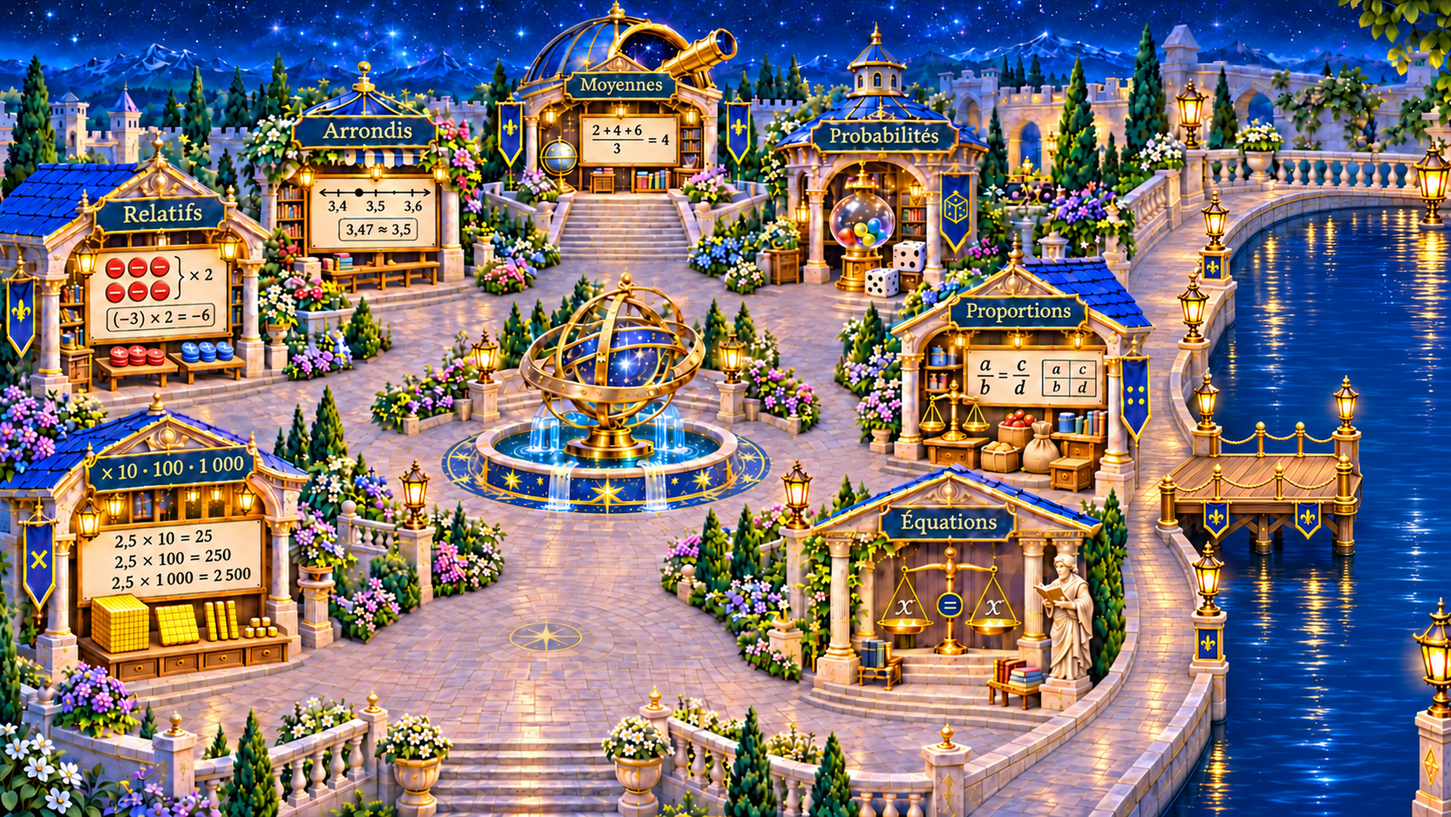
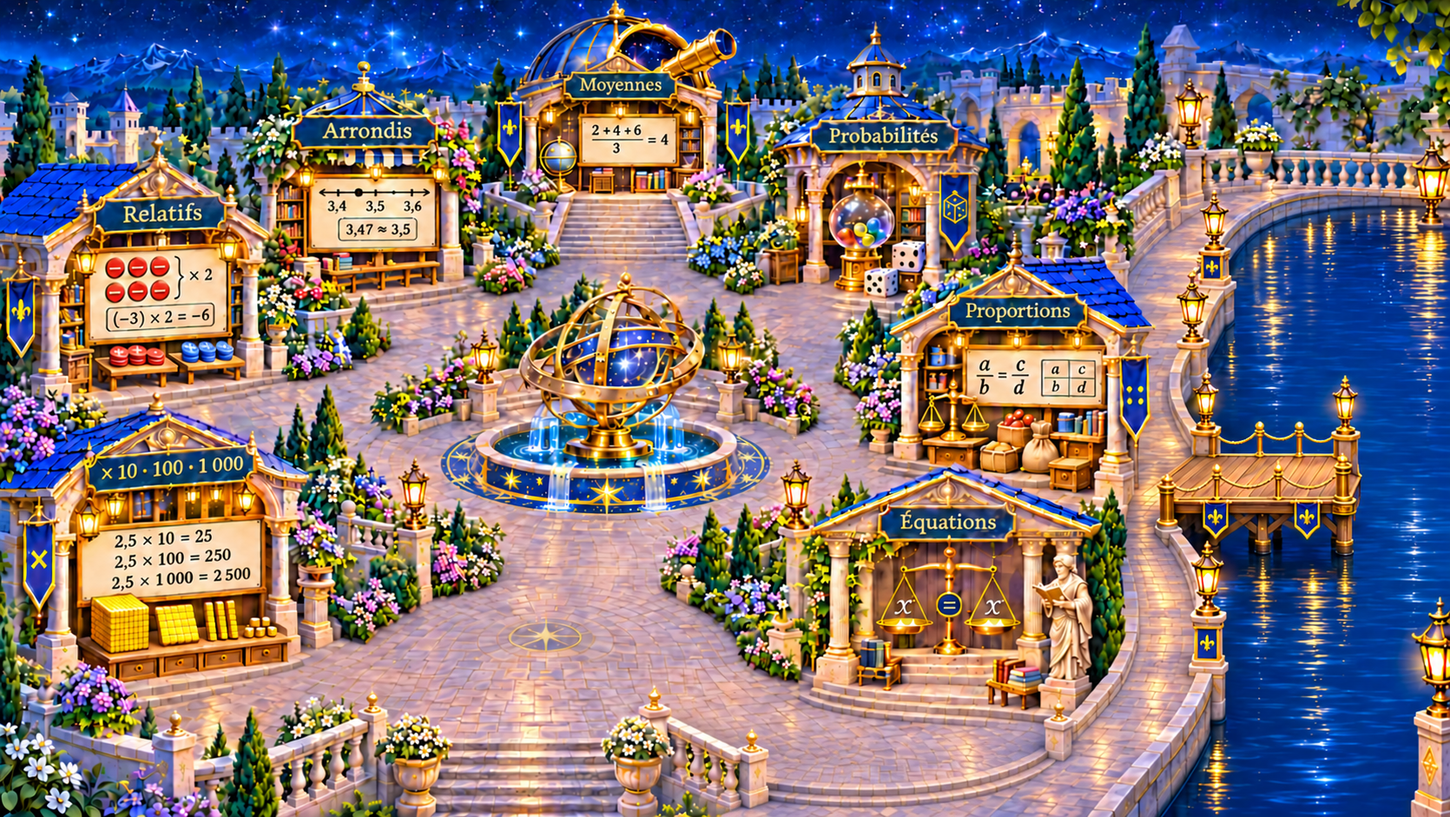
fix(test): open balustrade passage on route to harbour (v0.3.63-test)

diff --git a/index.html b/index.html
@@ -4,7 +4,7 @@
   <meta charset="utf-8">
   <meta name="viewport" content="width=device-width, initial-scale=1">
   <meta name="theme-color" content="#111d31">
-  <title>Maths Quest — version 0.3.62-test — Bleu royal & or</title>
+  <title>Maths Quest — version 0.3.63-test — Bleu royal & or</title>
   <style>
     :root { font-family:system-ui,sans-serif; background:#101c2d; color:#eee6d4; color-scheme:dark; }
     * { box-sizing:border-box; }
@@ -203,7 +203,7 @@
 
 
     /* ====================================================================
-       v0.3.62-test - Thème retenu : Bleu royal, or et parchemin.
+       v0.3.63-test - Thème retenu : Bleu royal, or et parchemin.
        Toute la logique pédagogique 0.3 reste inchangée.
        ==================================================================== */
     .quiz-screen{
@@ -365,7 +365,7 @@
     @media(prefers-reduced-motion:reduce){.quiz-submit{transition:none}}
 
 
-    /* v0.3.62-test — Cartouche de défi à droite du héros. */
+    /* v0.3.63-test — Cartouche de défi à droite du héros. */
     .arrival{left:50.4%;top:27.7%;width:24.5%;max-width:360px;min-width:0;gap:clamp(3px,.5vw,8px);
       padding:clamp(5px,.72vw,12px);box-shadow:0 9px 23px #071c3bc7;}
     .arrival .arrival-heading{font-size:clamp(10px,.94vw,16px)}
@@ -373,7 +373,7 @@
     .arrival small{font-size:clamp(9px,.8vw,13px)}
     .arrival .arrival-action{font-size:clamp(10px,.95vw,16px);padding:clamp(6px,.65vw,12px)}
 
-    /* v0.3.62-test — Camp d'entrainement de face comme arrière-plan des exercices.
+    /* v0.3.63-test — Camp d'entrainement de face comme arrière-plan des exercices.
        L'interface d'Activités mentales reste indépendante de ce fond illustré. */
     .quiz-screen{
       background-image:linear-gradient(90deg,rgba(7,27,57,.47),rgba(10,34,63,.31) 50%,rgba(7,27,57,.47)),
@@ -417,7 +417,7 @@
 
 
     /* ================================================================
-       v0.3.62-test — adaptation à la HAUTEUR et à la LARGEUR de l'écran.
+       v0.3.63-test — adaptation à la HAUTEUR et à la LARGEUR de l'écran.
        Une question doit tenir dans la zone visible, bouton Valider inclus.
        Le bilan reste défilable car il contient les dix réponses.
        ================================================================ */
@@ -530,7 +530,7 @@
     }
 
 
-    /* v0.3.62-test — Écran de transition « Tables de multiplication ».
+    /* v0.3.63-test — Écran de transition « Tables de multiplication ».
        L'illustration est un décor, les zones actives sont de vrais boutons HTML. */
     .trial-transition[hidden] {display:none!important}
     .trial-transition {position:fixed;inset:0;z-index:55;display:flex;flex-direction:column;
@@ -575,7 +575,7 @@
     @media(min-width:701px){.oath{max-height:59%;overflow:auto}}
     .relative-intro{display:none!important}
     .transition-recap{left:68.1%;top:10.8%;width:20.8%;height:4%;background:#0b2541;font-size:clamp(8px,1.05vw,17px);border:0;box-shadow:none}
-    /* v0.3.62-test — Bilan ajusté à l'écran ; seul le détail des réponses défile. */
+    /* v0.3.63-test — Bilan ajusté à l'écran ; seul le détail des réponses défile. */
     .quiz-content:has(.quiz-results:not([hidden])) {
       display:flex;overflow:hidden;width:min(760px,calc(100% - 24px));
     }
@@ -901,7 +901,7 @@ body:has(dialog[open]) #appFullscreen{visibility:hidden}
 @media(max-width:640px){#appFullscreen{right:8px;bottom:8px;width:34px;height:34px;padding:7px}.brand-version{font-size:clamp(6px,1.5vw,10px)}}
 
 
-/* v0.3.62-test — Progression retirée des images sources, sans plaque de masquage. */
+/* v0.3.63-test — Progression retirée des images sources, sans plaque de masquage. */
 #scene,.transition-viewport{container-type:inline-size}
 .court-quests .court-quest-row{display:none!important}
 .court-quests .trial-groups{display:grid;height:68%;grid-auto-rows:minmax(0,1fr);grid-template-rows:none}
@@ -1109,7 +1109,7 @@ body:has(dialog[open]) #appFullscreen{visibility:hidden}
 <body>
 <svg width="0" height="0" aria-hidden="true" style="position:absolute"><defs><clipPath id="worldHeaderPanels" clipPathUnits="objectBoundingBox"><rect width=".33" height=".15"/><rect x=".39" width=".225" height=".15"/></clipPath></defs></svg>
   <main class="scene-area" id="sceneArea">
-    <div class="scene-viewport" id="scene"><span class="brand-version">v0.3.62-test</span>
+    <div class="scene-viewport" id="scene"><span class="brand-version">v0.3.63-test</span>
       <img class="scene-image" src="assets/carte-sans-progression.png"
         alt="L’Académie des Nombres, trois épreuves reliées par des flèches lumineuses, et l'entrée au premier plan." draggable="false">
       <svg class="route-layer" viewBox="0 0 1660 947" preserveAspectRatio="none" aria-hidden="true" focusable="false">
@@ -1200,7 +1200,7 @@ body:has(dialog[open]) #appFullscreen{visibility:hidden}
           draggable="false">
         <div class="quest-progress transition-progress" role="progressbar" aria-label="Défis validés" aria-valuemin="0" aria-valuemax="3" aria-valuenow="0"><span class="quest-progress-fill"></span></div>
         <span class="transition-recap" id="transitionRecap" aria-live="polite">1 / 3 défis validés ✓</span>
-        <span class="transition-version">Maths Quest · v0.3.62-test</span>
+        <span class="transition-version">Maths Quest · v0.3.63-test</span>
         <aside class="level-one-quests" aria-label="Quêtes du niveau 1"><h2>Quêtes du niveau</h2><div class="trial-groups"><div class="trial-group"><b>1</b><div><span id="transitionQuestLabel0">Calculs entiers</span><strong id="transitionQuestCount0"></strong></div><span id="transitionQuestDone0" class="court-quest-check" aria-label="Groupe en cours">✓</span></div><div class="trial-group"><b>2</b><div><span id="transitionQuestLabel1">Fractions</span><strong id="transitionQuestCount1"></strong></div><span id="transitionQuestDone1" class="court-quest-check" aria-label="Groupe en cours">✓</span></div></div><p>⭐ Obtiens au moins <strong>80 %</strong> de bonnes réponses pour avancer au niveau 2.</p></aside><div class="transition-panel-title">À toi de jouer !</div><div class="transition-choice-buttons"><button id="transitionStart" class="transition-hit transition-start" type="button"
           aria-label="Commencer le défi : Tables de multiplication" title="Commencer le défi"></button>
           <button id="skipCompletedTrial" class="skip-completed" type="button" hidden>Passer</button></div>
@@ -1234,7 +1234,7 @@ body:has(dialog[open]) #appFullscreen{visibility:hidden}
         <span class="quiz-logo" aria-hidden="true"><svg viewBox="0 0 64 68" width="45" height="48" role="presentation"><path d="M32 3 57 12 55 39Q47 55 32 64 17 55 9 39L7 12Z" fill="#173d79" stroke="#f8d38c" stroke-width="3"/><path d="M32 22Q23 14 15 20V43Q25 38 32 45Q39 38 49 43V20Q40 14 32 22Z" fill="#fff3cd" stroke="#d7b36a" stroke-width="2"/><path d="M32 22V45" fill="none" stroke="#aa8246" stroke-width="2"/><path d="M18 25Q25 23 29 27M35 27Q41 23 46 25M18 31Q24 29 29 33M35 33Q41 29 46 31" fill="none" stroke="#a68a5c" stroke-width="1.5"/></svg></span>
         <span><strong>Maths Quest</strong><small>L'Académie des Nombres · Niveau 1</small></span>
       </div>
-      <span class="quiz-stage-label">⚜ Les bases de l'Académie <small>v0.3.62-test</small></span>
+      <span class="quiz-stage-label">⚜ Les bases de l'Académie <small>v0.3.63-test</small></span>
     </header>
     <div class="quiz-content">
       <div id="quizQuestions" class="quiz-questions">
@@ -1298,9 +1298,9 @@ body:has(dialog[open]) #appFullscreen{visibility:hidden}
   </section>
 
 <section id="courtScreen" class="court-screen" hidden aria-label="Niveau 2, La Cour des Savoirs">
-<div id="courtArea" class="court-area"><div id="courtMap" class="court-map"><span class="brand-version">v0.3.62-test</span><img id="courtBackground" class="court-background" src="assets/cour-des-savoirs-sans-progression.png" alt="La Cour des Savoirs : six ateliers autour de la fontaine au cheval." draggable="false"><svg class="court-routes" viewBox="0 0 1616 970" aria-hidden="true"><defs><filter id="courtGlow"><feGaussianBlur stdDeviation="5"/></filter><marker id="courtArrow" viewBox="0 0 24 24" refX="19" refY="12" markerWidth="4.5" markerHeight="4.5" orient="auto"><path d="M2 2 22 12 2 22 7 12Z" fill="#fff7a8" stroke="#ffd52e" stroke-width="2"/></marker></defs><path d="M686.94,834.13 L677,808 L647,757 L615,724 L575,712 L540,724 L513.27,747.39" fill="none" stroke="#ffcf00" stroke-width="16" opacity=".8" filter="url(#courtGlow)"/><path d="M686.94,834.13 L677,808 L647,757 L615,724 L575,712 L540,724 L513.27,747.39" fill="none" stroke="#ffd52a" stroke-width="11"/><path d="M686.94,834.13 L677,808 L647,757 L615,724 L575,712 L540,724 L513.27,747.39" fill="none" stroke="#fff7a8" stroke-width="6"/><path d="M503.67,757.5 L482,785 L438,815 L383,825 L327,822 L303.9,813.34" fill="none" stroke="#ffcf00" stroke-width="16" opacity=".8" filter="url(#courtGlow)"/><path d="M503.67,757.5 L482,785 L438,815 L383,825 L327,822 L303.9,813.34" fill="none" stroke="#ffd52a" stroke-width="11"/><path d="M503.67,757.5 L482,785 L438,815 L383,825 L327,822 L303.9,813.34" fill="none" stroke="#fff7a8" stroke-width="6" marker-end="url(#courtArrow)"/><path d="M295.81,767.81 L322,745 L332,716 L330.44,690.99" fill="none" stroke="#ffcf00" stroke-width="16" opacity=".8" filter="url(#courtGlow)"/><path d="M295.81,767.81 L322,745 L332,716 L330.44,690.99" fill="none" stroke="#ffd52a" stroke-width="11"/><path d="M295.81,767.81 L322,745 L332,716 L330.44,690.99" fill="none" stroke="#fff7a8" stroke-width="6"/><path d="M330.6,677.03 L333,649 L352,609 L361.2,586.33" fill="none" stroke="#ffcf00" stroke-width="16" opacity=".8" filter="url(#courtGlow)"/><path d="M330.6,677.03 L333,649 L352,609 L361.2,586.33" fill="none" stroke="#ffd52a" stroke-width="11"/><path d="M330.6,677.03 L333,649 L352,609 L361.2,586.33" fill="none" stroke="#fff7a8" stroke-width="6" marker-end="url(#courtArrow)"/><path d="M420.83,514.76 L435,506 L477.4,474.2" fill="none" stroke="#ffcf00" stroke-width="16" opacity=".8" filter="url(#courtGlow)"/><path d="M420.83,514.76 L435,506 L477.4,474.2" fill="none" stroke="#ffd52a" stroke-width="11"/><path d="M420.83,514.76 L435,506 L477.4,474.2" fill="none" stroke="#fff7a8" stroke-width="6"/><path d="M487.89,464.99 L519.61,432.42" fill="none" stroke="#ffcf00" stroke-width="16" opacity=".8" filter="url(#courtGlow)"/><path d="M487.89,464.99 L519.61,432.42" fill="none" stroke="#ffd52a" stroke-width="11"/><path d="M487.89,464.99 L519.61,432.42" fill="none" stroke="#fff7a8" stroke-width="6" marker-end="url(#courtArrow)"/><path d="M595.9,381.8 L618,377 L676.14,365.37" fill="none" stroke="#ffcf00" stroke-width="16" opacity=".8" filter="url(#courtGlow)"/><path d="M595.9,381.8 L618,377 L676.14,365.37" fill="none" stroke="#ffd52a" stroke-width="11"/><path d="M595.9,381.8 L618,377 L676.14,365.37" fill="none" stroke="#fff7a8" stroke-width="6"/><path d="M689.86,365.37 L733,374 L739.15,375.34" fill="none" stroke="#ffcf00" stroke-width="16" opacity=".8" filter="url(#courtGlow)"/><path d="M689.86,365.37 L733,374 L739.15,375.34" fill="none" stroke="#ffd52a" stroke-width="11"/><path d="M689.86,365.37 L733,374 L739.15,375.34" fill="none" stroke="#fff7a8" stroke-width="6" marker-end="url(#courtArrow)"/><path d="M821.47,420.4 L824,423 L880.6,448.16" fill="none" stroke="#ffcf00" stroke-width="16" opacity=".8" filter="url(#courtGlow)"/><path d="M821.47,420.4 L824,423 L880.6,448.16" fill="none" stroke="#ffd52a" stroke-width="11"/><path d="M821.47,420.4 L824,423 L880.6,448.16" fill="none" stroke="#fff7a8" stroke-width="6"/><path d="M893.69,453.06 L965,475 L997.75,483.89" fill="none" stroke="#ffcf00" stroke-width="16" opacity=".8" filter="url(#courtGlow)"/><path d="M893.69,453.06 L965,475 L997.75,483.89" fill="none" stroke="#ffd52a" stroke-width="11"/><path d="M893.69,453.06 L965,475 L997.75,483.89" fill="none" stroke="#fff7a8" stroke-width="6" marker-end="url(#courtArrow)"/><path d="M1008.99,527.57 L1000,535 L952,577 L918,630 L910.09,680.09" fill="none" stroke="#ffcf00" stroke-width="16" opacity=".8" filter="url(#courtGlow)"/><path d="M1008.99,527.57 L1000,535 L952,577 L918,630 L910.09,680.09" fill="none" stroke="#ffd52a" stroke-width="11"/><path d="M1008.99,527.57 L1000,535 L952,577 L918,630 L910.09,680.09" fill="none" stroke="#fff7a8" stroke-width="6"/><path d="M914.59,691.22 L962,727 L1044,756 L1105.15,769.34" fill="none" stroke="#ffcf00" stroke-width="16" opacity=".8" filter="url(#courtGlow)"/><path d="M914.59,691.22 L962,727 L1044,756 L1105.15,769.34" fill="none" stroke="#ffd52a" stroke-width="11"/><path d="M914.59,691.22 L962,727 L1044,756 L1105.15,769.34" fill="none" stroke="#fff7a8" stroke-width="6" marker-end="url(#courtArrow)"/><path d="M1193.23,807.66 L1215,823 L1269.31,861.92" fill="none" stroke="#ffcf00" stroke-width="16" opacity=".8" filter="url(#courtGlow)"/><path d="M1193.23,807.66 L1215,823 L1269.31,861.92" fill="none" stroke="#ffd52a" stroke-width="11"/><path d="M1193.23,807.66 L1215,823 L1269.31,861.92" fill="none" stroke="#fff7a8" stroke-width="6"/><path d="M1281.14,869.36 L1339,901 L1383.89,909.6" fill="none" stroke="#ffcf00" stroke-width="16" opacity=".8" filter="url(#courtGlow)"/><path d="M1281.14,869.36 L1339,901 L1383.89,909.6" fill="none" stroke="#ffd52a" stroke-width="11"/><path d="M1281.14,869.36 L1339,901 L1383.89,909.6" fill="none" stroke="#fff7a8" stroke-width="6" marker-end="url(#courtArrow)"/></svg><div class="court-progress-cover"><div id="courtProgress" class="court-progress" role="progressbar" aria-label="Défis validés du niveau 2" aria-valuemin="0" aria-valuemax="6" aria-valuenow="0"><span id="courtProgressFill"></span></div><span id="courtCount">0 / 6 défis validés</span></div><span id="courtDone0" class="court-done" style="top:27%" hidden aria-label="Défi 1 validé">✓</span><span id="courtDone1" class="court-done" style="top:33.3%" hidden aria-label="Défi 2 validé">✓</span><span id="courtDone2" class="court-done" style="top:39.8%" hidden aria-label="Défi 3 validé">✓</span><span id="courtDone3" class="court-done" style="top:46.1%" hidden aria-label="Défi 4 validé">✓</span><span id="courtDone4" class="court-done" style="top:52.36%" hidden aria-label="Défi 5 validé">✓</span><span id="courtDone5" class="court-done" style="top:58.42%" hidden aria-label="Défi 6 validé">✓</span><span id="observatoryGroup0" class="observatory-group-count" style="top:30.6%" hidden>0 / 5</span><span id="observatoryGroupDone0" class="observatory-group-done" style="top:28.7%" hidden>✓</span><span id="observatoryGroup1" class="observatory-group-count" style="top:43.4%" hidden>0 / 2</span><span id="observatoryGroupDone1" class="observatory-group-done" style="top:39.0%" hidden>✓</span><span id="observatoryGroup2" class="observatory-group-count" style="top:54.1%" hidden>0 / 6</span><span id="observatoryGroupDone2" class="observatory-group-done" style="top:50.8%" hidden>✓</span><aside class="level-one-quests world-map-quests" aria-label="Quêtes du niveau"><h2>Quêtes du niveau</h2><div class="trial-groups"><div class="trial-group"><b>1</b><div><span id="worldMapGroupLabel0">Mesures & proportionnalité</span><strong id="worldMapGroupCount0"></strong></div><span id="worldMapGroupDone0" class="court-quest-check" aria-label="Groupe en cours">✓</span></div><div class="trial-group"><b>2</b><div><span id="worldMapGroupLabel1">Statistiques & probabilités</span><strong id="worldMapGroupCount1"></strong></div><span id="worldMapGroupDone1" class="court-quest-check" aria-label="Groupe en cours">✓</span></div><div class="trial-group"><b>3</b><div><span id="worldMapGroupLabel2">Calcul & algèbre</span><strong id="worldMapGroupCount2"></strong></div><span id="worldMapGroupDone2" class="court-quest-check" aria-label="Groupe en cours">✓</span></div><div class="trial-group"><b>4</b><div><span id="worldMapGroupLabel3"></span><strong id="worldMapGroupCount3"></strong></div><span id="worldMapGroupDone3" class="court-quest-check" aria-label="Groupe en cours">✓</span></div></div><p>⭐ Obtiens au moins <strong>80 %</strong> de bonnes réponses pour valider chaque épreuve.</p></aside><div id="harbourBoat" class="harbour-boat" hidden aria-label="Le bateau pour la Forge des Nombres"><div class="harbour-vessel"><img class="harbour-boat-art" src="assets/barque-observatoire.png" alt="Barque royale bleue et or amarrée au quai" draggable="false"><img id="harbourPassenger" class="harbour-passenger" hidden alt="Le héros à bord du bateau" draggable="false"></div></div><img id="courtHero" class="court-hero" alt="Le héros se déplace vers les épreuves." draggable="false"><img id="courtDepthBoard" class="court-depth-board" alt="" aria-hidden="true"></div></div>
+<div id="courtArea" class="court-area"><div id="courtMap" class="court-map"><span class="brand-version">v0.3.63-test</span><img id="courtBackground" class="court-background" src="assets/cour-des-savoirs-sans-progression.png" alt="La Cour des Savoirs : six ateliers autour de la fontaine au cheval." draggable="false"><svg class="court-routes" viewBox="0 0 1616 970" aria-hidden="true"><defs><filter id="courtGlow"><feGaussianBlur stdDeviation="5"/></filter><marker id="courtArrow" viewBox="0 0 24 24" refX="19" refY="12" markerWidth="4.5" markerHeight="4.5" orient="auto"><path d="M2 2 22 12 2 22 7 12Z" fill="#fff7a8" stroke="#ffd52e" stroke-width="2"/></marker></defs><path d="M686.94,834.13 L677,808 L647,757 L615,724 L575,712 L540,724 L513.27,747.39" fill="none" stroke="#ffcf00" stroke-width="16" opacity=".8" filter="url(#courtGlow)"/><path d="M686.94,834.13 L677,808 L647,757 L615,724 L575,712 L540,724 L513.27,747.39" fill="none" stroke="#ffd52a" stroke-width="11"/><path d="M686.94,834.13 L677,808 L647,757 L615,724 L575,712 L540,724 L513.27,747.39" fill="none" stroke="#fff7a8" stroke-width="6"/><path d="M503.67,757.5 L482,785 L438,815 L383,825 L327,822 L303.9,813.34" fill="none" stroke="#ffcf00" stroke-width="16" opacity=".8" filter="url(#courtGlow)"/><path d="M503.67,757.5 L482,785 L438,815 L383,825 L327,822 L303.9,813.34" fill="none" stroke="#ffd52a" stroke-width="11"/><path d="M503.67,757.5 L482,785 L438,815 L383,825 L327,822 L303.9,813.34" fill="none" stroke="#fff7a8" stroke-width="6" marker-end="url(#courtArrow)"/><path d="M295.81,767.81 L322,745 L332,716 L330.44,690.99" fill="none" stroke="#ffcf00" stroke-width="16" opacity=".8" filter="url(#courtGlow)"/><path d="M295.81,767.81 L322,745 L332,716 L330.44,690.99" fill="none" stroke="#ffd52a" stroke-width="11"/><path d="M295.81,767.81 L322,745 L332,716 L330.44,690.99" fill="none" stroke="#fff7a8" stroke-width="6"/><path d="M330.6,677.03 L333,649 L352,609 L361.2,586.33" fill="none" stroke="#ffcf00" stroke-width="16" opacity=".8" filter="url(#courtGlow)"/><path d="M330.6,677.03 L333,649 L352,609 L361.2,586.33" fill="none" stroke="#ffd52a" stroke-width="11"/><path d="M330.6,677.03 L333,649 L352,609 L361.2,586.33" fill="none" stroke="#fff7a8" stroke-width="6" marker-end="url(#courtArrow)"/><path d="M420.83,514.76 L435,506 L477.4,474.2" fill="none" stroke="#ffcf00" stroke-width="16" opacity=".8" filter="url(#courtGlow)"/><path d="M420.83,514.76 L435,506 L477.4,474.2" fill="none" stroke="#ffd52a" stroke-width="11"/><path d="M420.83,514.76 L435,506 L477.4,474.2" fill="none" stroke="#fff7a8" stroke-width="6"/><path d="M487.89,464.99 L519.61,432.42" fill="none" stroke="#ffcf00" stroke-width="16" opacity=".8" filter="url(#courtGlow)"/><path d="M487.89,464.99 L519.61,432.42" fill="none" stroke="#ffd52a" stroke-width="11"/><path d="M487.89,464.99 L519.61,432.42" fill="none" stroke="#fff7a8" stroke-width="6" marker-end="url(#courtArrow)"/><path d="M595.9,381.8 L618,377 L676.14,365.37" fill="none" stroke="#ffcf00" stroke-width="16" opacity=".8" filter="url(#courtGlow)"/><path d="M595.9,381.8 L618,377 L676.14,365.37" fill="none" stroke="#ffd52a" stroke-width="11"/><path d="M595.9,381.8 L618,377 L676.14,365.37" fill="none" stroke="#fff7a8" stroke-width="6"/><path d="M689.86,365.37 L733,374 L739.15,375.34" fill="none" stroke="#ffcf00" stroke-width="16" opacity=".8" filter="url(#courtGlow)"/><path d="M689.86,365.37 L733,374 L739.15,375.34" fill="none" stroke="#ffd52a" stroke-width="11"/><path d="M689.86,365.37 L733,374 L739.15,375.34" fill="none" stroke="#fff7a8" stroke-width="6" marker-end="url(#courtArrow)"/><path d="M821.47,420.4 L824,423 L880.6,448.16" fill="none" stroke="#ffcf00" stroke-width="16" opacity=".8" filter="url(#courtGlow)"/><path d="M821.47,420.4 L824,423 L880.6,448.16" fill="none" stroke="#ffd52a" stroke-width="11"/><path d="M821.47,420.4 L824,423 L880.6,448.16" fill="none" stroke="#fff7a8" stroke-width="6"/><path d="M893.69,453.06 L965,475 L997.75,483.89" fill="none" stroke="#ffcf00" stroke-width="16" opacity=".8" filter="url(#courtGlow)"/><path d="M893.69,453.06 L965,475 L997.75,483.89" fill="none" stroke="#ffd52a" stroke-width="11"/><path d="M893.69,453.06 L965,475 L997.75,483.89" fill="none" stroke="#fff7a8" stroke-width="6" marker-end="url(#courtArrow)"/><path d="M1008.99,527.57 L1000,535 L952,577 L918,630 L910.09,680.09" fill="none" stroke="#ffcf00" stroke-width="16" opacity=".8" filter="url(#courtGlow)"/><path d="M1008.99,527.57 L1000,535 L952,577 L918,630 L910.09,680.09" fill="none" stroke="#ffd52a" stroke-width="11"/><path d="M1008.99,527.57 L1000,535 L952,577 L918,630 L910.09,680.09" fill="none" stroke="#fff7a8" stroke-width="6"/><path d="M914.59,691.22 L962,727 L1044,756 L1105.15,769.34" fill="none" stroke="#ffcf00" stroke-width="16" opacity=".8" filter="url(#courtGlow)"/><path d="M914.59,691.22 L962,727 L1044,756 L1105.15,769.34" fill="none" stroke="#ffd52a" stroke-width="11"/><path d="M914.59,691.22 L962,727 L1044,756 L1105.15,769.34" fill="none" stroke="#fff7a8" stroke-width="6" marker-end="url(#courtArrow)"/><path d="M1193.23,807.66 L1215,823 L1269.31,861.92" fill="none" stroke="#ffcf00" stroke-width="16" opacity=".8" filter="url(#courtGlow)"/><path d="M1193.23,807.66 L1215,823 L1269.31,861.92" fill="none" stroke="#ffd52a" stroke-width="11"/><path d="M1193.23,807.66 L1215,823 L1269.31,861.92" fill="none" stroke="#fff7a8" stroke-width="6"/><path d="M1281.14,869.36 L1339,901 L1383.89,909.6" fill="none" stroke="#ffcf00" stroke-width="16" opacity=".8" filter="url(#courtGlow)"/><path d="M1281.14,869.36 L1339,901 L1383.89,909.6" fill="none" stroke="#ffd52a" stroke-width="11"/><path d="M1281.14,869.36 L1339,901 L1383.89,909.6" fill="none" stroke="#fff7a8" stroke-width="6" marker-end="url(#courtArrow)"/></svg><div class="court-progress-cover"><div id="courtProgress" class="court-progress" role="progressbar" aria-label="Défis validés du niveau 2" aria-valuemin="0" aria-valuemax="6" aria-valuenow="0"><span id="courtProgressFill"></span></div><span id="courtCount">0 / 6 défis validés</span></div><span id="courtDone0" class="court-done" style="top:27%" hidden aria-label="Défi 1 validé">✓</span><span id="courtDone1" class="court-done" style="top:33.3%" hidden aria-label="Défi 2 validé">✓</span><span id="courtDone2" class="court-done" style="top:39.8%" hidden aria-label="Défi 3 validé">✓</span><span id="courtDone3" class="court-done" style="top:46.1%" hidden aria-label="Défi 4 validé">✓</span><span id="courtDone4" class="court-done" style="top:52.36%" hidden aria-label="Défi 5 validé">✓</span><span id="courtDone5" class="court-done" style="top:58.42%" hidden aria-label="Défi 6 validé">✓</span><span id="observatoryGroup0" class="observatory-group-count" style="top:30.6%" hidden>0 / 5</span><span id="observatoryGroupDone0" class="observatory-group-done" style="top:28.7%" hidden>✓</span><span id="observatoryGroup1" class="observatory-group-count" style="top:43.4%" hidden>0 / 2</span><span id="observatoryGroupDone1" class="observatory-group-done" style="top:39.0%" hidden>✓</span><span id="observatoryGroup2" class="observatory-group-count" style="top:54.1%" hidden>0 / 6</span><span id="observatoryGroupDone2" class="observatory-group-done" style="top:50.8%" hidden>✓</span><aside class="level-one-quests world-map-quests" aria-label="Quêtes du niveau"><h2>Quêtes du niveau</h2><div class="trial-groups"><div class="trial-group"><b>1</b><div><span id="worldMapGroupLabel0">Mesures & proportionnalité</span><strong id="worldMapGroupCount0"></strong></div><span id="worldMapGroupDone0" class="court-quest-check" aria-label="Groupe en cours">✓</span></div><div class="trial-group"><b>2</b><div><span id="worldMapGroupLabel1">Statistiques & probabilités</span><strong id="worldMapGroupCount1"></strong></div><span id="worldMapGroupDone1" class="court-quest-check" aria-label="Groupe en cours">✓</span></div><div class="trial-group"><b>3</b><div><span id="worldMapGroupLabel2">Calcul & algèbre</span><strong id="worldMapGroupCount2"></strong></div><span id="worldMapGroupDone2" class="court-quest-check" aria-label="Groupe en cours">✓</span></div><div class="trial-group"><b>4</b><div><span id="worldMapGroupLabel3"></span><strong id="worldMapGroupCount3"></strong></div><span id="worldMapGroupDone3" class="court-quest-check" aria-label="Groupe en cours">✓</span></div></div><p>⭐ Obtiens au moins <strong>80 %</strong> de bonnes réponses pour valider chaque épreuve.</p></aside><div id="harbourBoat" class="harbour-boat" hidden aria-label="Le bateau pour la Forge des Nombres"><div class="harbour-vessel"><img class="harbour-boat-art" src="assets/barque-observatoire.png" alt="Barque royale bleue et or amarrée au quai" draggable="false"><img id="harbourPassenger" class="harbour-passenger" hidden alt="Le héros à bord du bateau" draggable="false"></div></div><img id="courtHero" class="court-hero" alt="Le héros se déplace vers les épreuves." draggable="false"><img id="courtDepthBoard" class="court-depth-board" alt="" aria-hidden="true"></div></div>
 <footer class="court-controls"><p id="courtMessage" role="status" aria-live="polite"></p><div class="court-buttons"><button id="courtAction" type="button">⚔ Commencer le parcours</button><button id="courtFullscreen" type="button">⛶ Plein écran</button><button id="courtZoom" type="button">⌕ Agrandir la carte</button><button id="boatSkip" type="button" hidden>Passer la traversée →</button><button id="courtReset" type="button">↻ Retour à l’entrée</button><button id="skipLevelTwo" type="button">Passer au niveau 3 →</button><button id="courtBack" type="button">← Niveau 1</button></div></footer></section>
-<section id="courtTrial" class="court-screen court-trial" hidden aria-label="Entrée de l’épreuve du niveau 2"><div id="courtTrialArea" class="court-area"><div id="courtTrialScene" class="court-trial-scene"><span class="brand-version">v0.3.62-test</span><img id="courtTrialHeader" class="court-ui-header" alt="" aria-hidden="true"><div class="court-world-title"><span id="courtWorldTitle">Niveau 2</span><small id="courtWorldSubtitle">La Cour des Savoirs</small></div><div class="court-trial-progress"><div class="court-progress" role="progressbar" id="courtTrialProgress" aria-label="Défis validés du niveau 2" aria-valuemin="0" aria-valuemax="6" aria-valuenow="0"><span id="courtTrialProgressFill"></span></div><span id="courtTrialCount" class="court-trial-count"></span></div><aside id="courtTrialQuests" class="court-quests" aria-label="Quêtes du niveau"><h2>Quêtes du niveau</h2><div class="trial-groups"><div class="trial-group"><b>1</b><div><span id="trialGroupLabel0">Mesures & proportionnalité</span><strong id="trialGroupCount0"></strong></div><span id="trialGroupDone0" class="court-quest-check" aria-label="Groupe en cours">✓</span></div><div class="trial-group"><b>2</b><div><span id="trialGroupLabel1">Statistiques & probabilités</span><strong id="trialGroupCount1"></strong></div><span id="trialGroupDone1" class="court-quest-check" aria-label="Groupe en cours">✓</span></div><div class="trial-group"><b>3</b><div><span id="trialGroupLabel2">Calcul & algèbre</span><strong id="trialGroupCount2"></strong></div><span id="trialGroupDone2" class="court-quest-check" aria-label="Groupe en cours">✓</span></div><div class="trial-group"><b>4</b><div><span id="trialGroupLabel3"></span><strong id="trialGroupCount3"></strong></div><span id="trialGroupDone3" class="court-quest-check" aria-label="Groupe en cours">✓</span></div></div><div id="worldQuestRow0" class="court-quest-row"><b>1</b><span id="worldQuestLabel0">Conversions de longueurs</span><span id="courtTrialDone0" class="court-quest-check" aria-label="Non validé">✓</span></div><div id="worldQuestRow1" class="court-quest-row"><b>2</b><span id="worldQuestLabel1">Tableaux de proportionnalité</span><span id="courtTrialDone1" class="court-quest-check" aria-label="Non validé">✓</span></div><div id="worldQuestRow2" class="court-quest-row"><b>3</b><span id="worldQuestLabel2">Étendue d’une série</span><span id="courtTrialDone2" class="court-quest-check" aria-label="Non validé">✓</span></div><div id="worldQuestRow3" class="court-quest-row"><b>4</b><span id="worldQuestLabel3">Probabilités</span><span id="courtTrialDone3" class="court-quest-check" aria-label="Non validé">✓</span></div><div id="worldQuestRow4" class="court-quest-row"><b>5</b><span id="worldQuestLabel4">Calcul d’expressions</span><span id="courtTrialDone4" class="court-quest-check" aria-label="Non validé">✓</span></div><div id="worldQuestRow5" class="court-quest-row"><b>6</b><span id="worldQuestLabel5">Équations</span><span id="courtTrialDone5" class="court-quest-check" aria-label="Non validé">✓</span></div><div id="worldQuestRow6" class="court-quest-row" hidden><b>7</b><span id="worldQuestLabel6"></span><span id="courtTrialDone6" class="court-quest-check" aria-label="Non validé">✓</span></div><div id="worldQuestRow7" class="court-quest-row" hidden><b>8</b><span id="worldQuestLabel7"></span><span id="courtTrialDone7" class="court-quest-check" aria-label="Non validé">✓</span></div><div id="worldQuestRow8" class="court-quest-row" hidden><b>9</b><span id="worldQuestLabel8"></span><span id="courtTrialDone8" class="court-quest-check" aria-label="Non validé">✓</span></div><div id="worldQuestRow9" class="court-quest-row" hidden><b>10</b><span id="worldQuestLabel9"></span><span id="courtTrialDone9" class="court-quest-check" aria-label="Non validé">✓</span></div><div id="worldQuestRow10" class="court-quest-row" hidden><b>11</b><span id="worldQuestLabel10"></span><span id="courtTrialDone10" class="court-quest-check" aria-label="Non validé">✓</span></div><div id="worldQuestRow11" class="court-quest-row" hidden><b>12</b><span id="worldQuestLabel11"></span><span id="courtTrialDone11" class="court-quest-check" aria-label="Non validé">✓</span></div><div id="worldQuestRow12" class="court-quest-row" hidden><b>13</b><span id="worldQuestLabel12"></span><span id="courtTrialDone12" class="court-quest-check" aria-label="Non validé">✓</span></div><p class="court-goal">⭐ Obtiens au moins<br><strong>80 %</strong> de bonnes réponses<br>pour avancer au niveau <span id="courtGoalLevel">3</span>.</p></aside><img id="courtTrialArt" class="court-trial-art" alt="Vue de face de l’atelier" draggable="false"><div class="court-trial-caption"><span id="courtTrialNumber" class="court-station-number"></span><span id="courtTrialPlace"></span></div><div id="courtTrialRing" hidden aria-hidden="true"></div><img id="courtTrialHero" class="court-trial-hero" alt="Le héros regarde l’atelier." draggable="false"><div class="court-panel"><span id="courtTrialOrder" class="court-order"></span><h1 id="courtTrialTitle"></h1><div class="court-line"></div><p id="courtTrialRule" class="court-rule"></p><p>🎯 10 questions</p><p id="courtTrialTime"></p><p class="court-threshold">⭐ 8 bonnes réponses pour continuer</p><div class="court-line"></div><div class="court-actions"><button id="courtTrialStart" type="button">▶ Commencer le défi</button><button id="courtTrialPass" type="button" hidden>Passer</button></div></div><footer class="court-transition-tools"><button id="courtTrialBack" type="button">← Retour à la carte</button><button id="courtTrialFullscreen" type="button">⛶ Plein écran</button><button id="courtTrialZoom" type="button">⌕ Agrandir la carte</button><button id="courtTrialReplay" type="button">↻ Rejouer le trajet</button><span class="court-version">Maths Quest · v0.3.62-test</span></footer></div></div></section>
+<section id="courtTrial" class="court-screen court-trial" hidden aria-label="Entrée de l’épreuve du niveau 2"><div id="courtTrialArea" class="court-area"><div id="courtTrialScene" class="court-trial-scene"><span class="brand-version">v0.3.63-test</span><img id="courtTrialHeader" class="court-ui-header" alt="" aria-hidden="true"><div class="court-world-title"><span id="courtWorldTitle">Niveau 2</span><small id="courtWorldSubtitle">La Cour des Savoirs</small></div><div class="court-trial-progress"><div class="court-progress" role="progressbar" id="courtTrialProgress" aria-label="Défis validés du niveau 2" aria-valuemin="0" aria-valuemax="6" aria-valuenow="0"><span id="courtTrialProgressFill"></span></div><span id="courtTrialCount" class="court-trial-count"></span></div><aside id="courtTrialQuests" class="court-quests" aria-label="Quêtes du niveau"><h2>Quêtes du niveau</h2><div class="trial-groups"><div class="trial-group"><b>1</b><div><span id="trialGroupLabel0">Mesures & proportionnalité</span><strong id="trialGroupCount0"></strong></div><span id="trialGroupDone0" class="court-quest-check" aria-label="Groupe en cours">✓</span></div><div class="trial-group"><b>2</b><div><span id="trialGroupLabel1">Statistiques & probabilités</span><strong id="trialGroupCount1"></strong></div><span id="trialGroupDone1" class="court-quest-check" aria-label="Groupe en cours">✓</span></div><div class="trial-group"><b>3</b><div><span id="trialGroupLabel2">Calcul & algèbre</span><strong id="trialGroupCount2"></strong></div><span id="trialGroupDone2" class="court-quest-check" aria-label="Groupe en cours">✓</span></div><div class="trial-group"><b>4</b><div><span id="trialGroupLabel3"></span><strong id="trialGroupCount3"></strong></div><span id="trialGroupDone3" class="court-quest-check" aria-label="Groupe en cours">✓</span></div></div><div id="worldQuestRow0" class="court-quest-row"><b>1</b><span id="worldQuestLabel0">Conversions de longueurs</span><span id="courtTrialDone0" class="court-quest-check" aria-label="Non validé">✓</span></div><div id="worldQuestRow1" class="court-quest-row"><b>2</b><span id="worldQuestLabel1">Tableaux de proportionnalité</span><span id="courtTrialDone1" class="court-quest-check" aria-label="Non validé">✓</span></div><div id="worldQuestRow2" class="court-quest-row"><b>3</b><span id="worldQuestLabel2">Étendue d’une série</span><span id="courtTrialDone2" class="court-quest-check" aria-label="Non validé">✓</span></div><div id="worldQuestRow3" class="court-quest-row"><b>4</b><span id="worldQuestLabel3">Probabilités</span><span id="courtTrialDone3" class="court-quest-check" aria-label="Non validé">✓</span></div><div id="worldQuestRow4" class="court-quest-row"><b>5</b><span id="worldQuestLabel4">Calcul d’expressions</span><span id="courtTrialDone4" class="court-quest-check" aria-label="Non validé">✓</span></div><div id="worldQuestRow5" class="court-quest-row"><b>6</b><span id="worldQuestLabel5">Équations</span><span id="courtTrialDone5" class="court-quest-check" aria-label="Non validé">✓</span></div><div id="worldQuestRow6" class="court-quest-row" hidden><b>7</b><span id="worldQuestLabel6"></span><span id="courtTrialDone6" class="court-quest-check" aria-label="Non validé">✓</span></div><div id="worldQuestRow7" class="court-quest-row" hidden><b>8</b><span id="worldQuestLabel7"></span><span id="courtTrialDone7" class="court-quest-check" aria-label="Non validé">✓</span></div><div id="worldQuestRow8" class="court-quest-row" hidden><b>9</b><span id="worldQuestLabel8"></span><span id="courtTrialDone8" class="court-quest-check" aria-label="Non validé">✓</span></div><div id="worldQuestRow9" class="court-quest-row" hidden><b>10</b><span id="worldQuestLabel9"></span><span id="courtTrialDone9" class="court-quest-check" aria-label="Non validé">✓</span></div><div id="worldQuestRow10" class="court-quest-row" hidden><b>11</b><span id="worldQuestLabel10"></span><span id="courtTrialDone10" class="court-quest-check" aria-label="Non validé">✓</span></div><div id="worldQuestRow11" class="court-quest-row" hidden><b>12</b><span id="worldQuestLabel11"></span><span id="courtTrialDone11" class="court-quest-check" aria-label="Non validé">✓</span></div><div id="worldQuestRow12" class="court-quest-row" hidden><b>13</b><span id="worldQuestLabel12"></span><span id="courtTrialDone12" class="court-quest-check" aria-label="Non validé">✓</span></div><p class="court-goal">⭐ Obtiens au moins<br><strong>80 %</strong> de bonnes réponses<br>pour avancer au niveau <span id="courtGoalLevel">3</span>.</p></aside><img id="courtTrialArt" class="court-trial-art" alt="Vue de face de l’atelier" draggable="false"><div class="court-trial-caption"><span id="courtTrialNumber" class="court-station-number"></span><span id="courtTrialPlace"></span></div><div id="courtTrialRing" hidden aria-hidden="true"></div><img id="courtTrialHero" class="court-trial-hero" alt="Le héros regarde l’atelier." draggable="false"><div class="court-panel"><span id="courtTrialOrder" class="court-order"></span><h1 id="courtTrialTitle"></h1><div class="court-line"></div><p id="courtTrialRule" class="court-rule"></p><p>🎯 10 questions</p><p id="courtTrialTime"></p><p class="court-threshold">⭐ 8 bonnes réponses pour continuer</p><div class="court-line"></div><div class="court-actions"><button id="courtTrialStart" type="button">▶ Commencer le défi</button><button id="courtTrialPass" type="button" hidden>Passer</button></div></div><footer class="court-transition-tools"><button id="courtTrialBack" type="button">← Retour à la carte</button><button id="courtTrialFullscreen" type="button">⛶ Plein écran</button><button id="courtTrialZoom" type="button">⌕ Agrandir la carte</button><button id="courtTrialReplay" type="button">↻ Rejouer le trajet</button><span class="court-version">Maths Quest · v0.3.63-test</span></footer></div></div></section>
 <div id="courtComplete" class="court-complete" hidden role="dialog" aria-modal="true" aria-labelledby="courtCompleteTitle"><div class="court-victory-card"><div id="courtVictoryScene" class="court-victory-scene"><img id="courtVictoryBackdrop" class="court-victory-backdrop" alt="La dernière porte de la Cour des Savoirs."><h2 id="courtCompleteTitle" class="court-victory-title">🏆 Niveau 2 terminé !<small>La Cour des Savoirs</small></h2><div class="court-victory-aura" aria-hidden="true"></div><div class="court-victory-walker"><img id="courtVictoryHero" alt="Le héros avance vers la porte puis s’arrête."></div><span class="court-victory-spark" aria-hidden="true" style="--sx:64%;--sy:57%;--delay:0.0s">✦</span><span class="court-victory-spark" aria-hidden="true" style="--sx:70%;--sy:50%;--delay:0.08s">✦</span><span class="court-victory-spark" aria-hidden="true" style="--sx:76%;--sy:45%;--delay:0.16s">✦</span><span class="court-victory-spark" aria-hidden="true" style="--sx:83%;--sy:53%;--delay:0.24s">✦</span><span class="court-victory-spark" aria-hidden="true" style="--sx:91%;--sy:60%;--delay:0.32s">✦</span><span class="court-victory-spark" aria-hidden="true" style="--sx:86%;--sy:72%;--delay:0.4s">✦</span><span class="court-victory-spark" aria-hidden="true" style="--sx:68%;--sy:75%;--delay:0.48s">✦</span><span class="court-victory-spark" aria-hidden="true" style="--sx:78%;--sy:68%;--delay:0.56s">✦</span><span class="court-victory-spark" aria-hidden="true" style="--sx:58%;--sy:65%;--delay:0.64s">✦</span><span class="court-victory-spark" aria-hidden="true" style="--sx:94%;--sy:43%;--delay:0.72s">✦</span><span class="court-victory-spark" aria-hidden="true" style="--sx:55%;--sy:43%;--delay:0.8s">✦</span><span class="court-victory-spark" aria-hidden="true" style="--sx:88%;--sy:36%;--delay:0.88s">✦</span></div><div class="court-victory-footer"><p id="courtVictoryStatus" role="status" aria-live="polite">Six épreuves remportées !</p><p id="courtVictoryNext" class="court-victory-next">La prochaine aventure sera ajoutée au-delà de cette porte.</p><button id="observatoryContinue" type="button">Rejoindre l’Observatoire royal →</button><button id="enterLevelFour" type="button" hidden>Entrer dans la Forge des Nombres — Niveau 4 →</button><button id="courtVictoryReplay" type="button">↻ Revoir l’animation</button><button id="courtCompleteClose" type="button">Revenir à la cour</button></div></div></div>
 <template id="courtArts"><img src="assets/atelier-1.png" alt="Atelier 1"><img src="assets/atelier-2.png" alt="Atelier 2"><img src="assets/atelier-3.png" alt="Atelier 3"><img src="assets/atelier-4.png" alt="Atelier 4"><img src="assets/atelier-5.png" alt="Atelier 5"><img src="assets/atelier-6.png" alt="Atelier 6"></template>
 <aside id="calculatorDrawer" class="calculator-drawer" hidden aria-labelledby="calculatorTitle"><div class="calculator-heading"><h2 id="calculatorTitle">Calculatrice</h2><button id="calculatorClose" type="button" aria-label="Fermer la calculatrice">×</button></div><label class="sr-only" for="calculatorDisplay">Calcul et résultat</label><input id="calculatorDisplay" class="calculator-display" type="text" readonly value="0" aria-describedby="calculatorStatus" autocomplete="off"><div class="calculator-keys"><button id="calculatorKey0" type="button" aria-label="Effacer tout">C</button><button id="calculatorKey1" type="button" aria-label="Effacer le dernier caractère">⌫</button><button id="calculatorKey2" type="button">(</button><button id="calculatorKey3" type="button">)</button><button id="calculatorKey4" type="button">7</button><button id="calculatorKey5" type="button">8</button><button id="calculatorKey6" type="button">9</button><button id="calculatorKey7" type="button" class="calc-operator">÷</button><button id="calculatorKey8" type="button">4</button><button id="calculatorKey9" type="button">5</button><button id="calculatorKey10" type="button">6</button><button id="calculatorKey11" type="button" class="calc-operator">×</button><button id="calculatorKey12" type="button">1</button><button id="calculatorKey13" type="button">2</button><button id="calculatorKey14" type="button">3</button><button id="calculatorKey15" type="button" class="calc-operator">−</button><button id="calculatorKey16" type="button">0</button><button id="calculatorKey17" type="button">,</button><button id="calculatorKey18" type="button" class="calc-equals">=</button><button id="calculatorKey19" type="button" class="calc-operator">+</button></div><button id="calculatorCopy" class="calculator-copy" type="button" disabled>Reporter le résultat</button><p id="calculatorStatus" class="calculator-status" role="status" aria-live="polite"></p><p><span id="calculatorHint">Étendue = maximum − minimum.</span><br>Le temps continue de s’écouler.</p></aside>
@@ -2084,7 +2084,7 @@ function generateRelatives(level){
       questionTime=currentStage>=5?courtModule().time*1000:currentStage===3?30000:10000;questionIndex=0;correct=0;answers=[];totalSpentMs=0;
       const title=stageTitles[currentStage];
       document.querySelector('.quiz-brand small').textContent="L’Académie des Nombres · Niveau "+(currentStage>=19?'4':currentStage>=12?'3':currentStage>=5?'2':'1');
-      document.querySelector('.quiz-stage-label').innerHTML=(currentStage>=19?'⚜ La Forge des Nombres':currentStage>=12?'⚜ L’Observatoire royal':currentStage>=5?'⚜ La Cour des Savoirs':'⚜ Les bases de l’Académie')+' <small>v0.3.62-test</small>';
+      document.querySelector('.quiz-stage-label').innerHTML=(currentStage>=19?'⚜ La Forge des Nombres':currentStage>=12?'⚜ L’Observatoire royal':currentStage>=5?'⚜ La Cour des Savoirs':'⚜ Les bases de l’Académie')+' <small>v0.3.63-test</small>';
       quizScreen.classList.toggle('fractions-quiz',currentStage===3);quizScreen.classList.toggle('level2-quiz',currentStage>=5);
       document.querySelector('.quiz-tip').textContent=currentStage===3?'Trouve le numérateur manquant · 8 bonnes réponses pour rejoindre le pont.':'⚜ Obtiens au moins 8 bonnes réponses pour ouvrir la voie suivante.';
       document.querySelector('.quiz-title-wrap strong').textContent=title;
@@ -2658,7 +2658,7 @@ eq_niv7:{group:'Équations',color:'#2563eb',icon:'=',title:'Équations — Nivea
       [[720,302],[787,306],[838,331],[885,345],[930,347]],
       [[930,347],[950,389],[940,436],[939,481],[960,518],[990,535]],
       [[990,535],[939,568],[871,590],[797,610],[733,652],[742,706],[806,756],[890,790],[973,806]],
-      [[973,806],[1052,844],[1140,867],[1230,855],[1296,805],[1325,725],[1320,655],[1340,595],[1400,565]]
+      [[973,806],[1052,844],[1110,890],[1180,913],[1245,880],[1296,805],[1325,725],[1320,655],[1340,595],[1400,565]]
     ].map(smoothCourtRoute);
     function observatoryRouteMarkup(routes=observatorySevenRoutes,stops=observatorySevenStops){
       const line=routes.map(points=>'M'+points.map(p=>p.join(',')).join(' L')).join(' ');
@@ -2667,7 +2667,7 @@ eq_niv7:{group:'Équations',color:'#2563eb',icon:'=',title:'Équations — Nivea
     }
     const worldThreeA={
       ...observatoryPartConfig(order3A,0,6),
-      background:'assets/observatoire_niveau3_sans_parchemin.png?v=0361',
+      background:'assets/observatoire_niveau3_sans_parchemin.png?v=0363',
       points:observatorySevenStops,
       routes:observatorySevenRoutes,
       // Même géométrie pour la ligne, les cercles et les pas du personnage.
